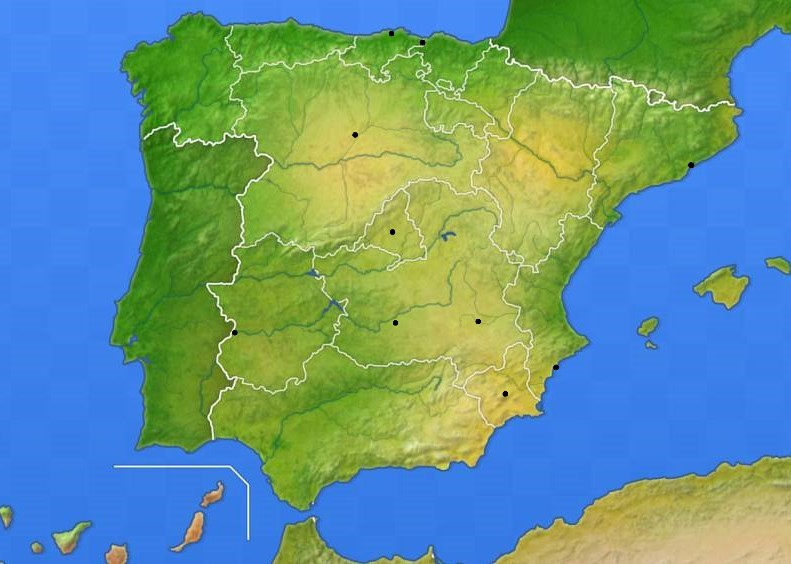
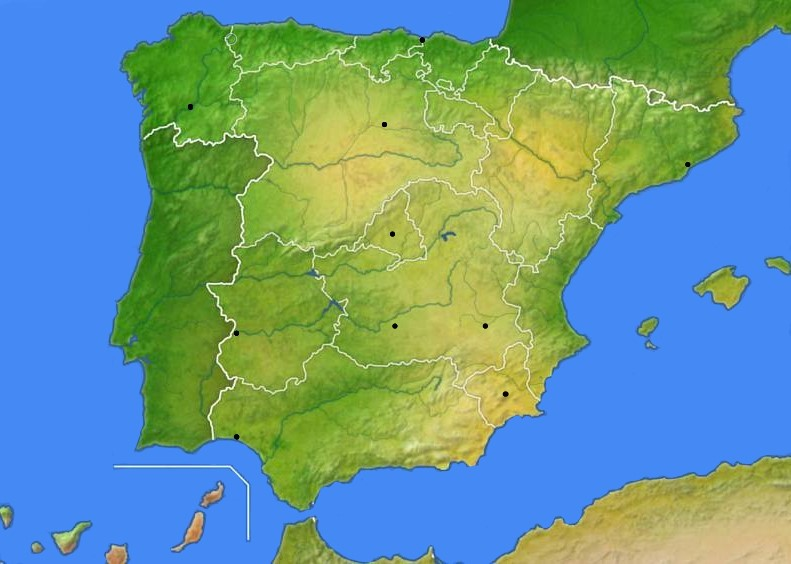
Edito el mapa y lo pongo en la interfaz

diff --git a/ProyectoWeather_GR/src/Vista/Interfaz.java b/ProyectoWeather_GR/src/Vista/Interfaz.java
@@ -296,7 +296,7 @@ public class Interfaz extends JFrame {
 		panelmapa.add(iconopalencia);
 
 		JLabel fotomapa = new JLabel("");
-		fotomapa.setIcon(new ImageIcon("imagenes\\mapa.jpg"));
+		fotomapa.setIcon(new ImageIcon("imagenes\\mapab.jpg"));
 		fotomapa.setBounds(0, 0, 787, 564);
 		panelmapa.add(fotomapa);
 
